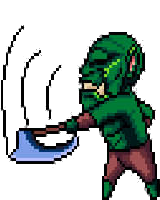
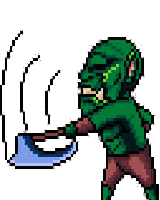
the golbin attack anim is getting shifted to the right have to fix that it might be pretty tricky. Worked on goblin pathfining got better its working and swinging correctly... for now

Changed region(s): [[0.0, 0.12, 1.0, 1.0]]

diff --git a/Campfire stories -monkey/EnemyGoblinBrute.cpp b/Campfire stories -monkey/EnemyGoblinBrute.cpp
@@ -89,6 +89,7 @@ EnemyGoblinBrute::EnemyGoblinBrute(const float& x, const float& y, const float& 
 void EnemyGoblinBrute::DrawEnemy() {
 	if (alive) {
 		DrawTexture(currentTexture, enemyBox.x, enemyBox.y + 10, WHITE);
+		//DrawTexturePro(goblinTex, src, dest, origin, 0, WHITE);
 		DrawRectangleRec(this->getHealhBar(), LIME);// health
 	}
 	//attack hitbox for testing
@@ -97,10 +98,10 @@ void EnemyGoblinBrute::DrawEnemy() {
 
 void EnemyGoblinBrute::playerSeenFunc(PlayerMonkey player) {
 	if (playerSeen) {
-		walkingDistanceRight = player.getRectangle().x - enemyBox.width - 70;
-		walkingDistanceLeft = player.getRectangle().x + enemyBox.width + 150;
+		walkingDistanceRight = player.getRectangle().x + enemyBox.width;
+		walkingDistanceLeft = player.getRectangle().x - enemyBox.width;
 
-		closeDistanceToPlayer = abs(player.getRectangle().x - enemyBox.x - 70);
+		closeDistanceToPlayer = abs(player.getRectangle().x - enemyBox.x + 10);
 
 		if (closeDistanceToPlayer <= 80 || animHitLeft > 0 || animHitRight > 0) {
 			hitting = true;
@@ -150,9 +151,9 @@ void EnemyGoblinBrute::handleAttacking() {
 
 			if (animHitLeft == 3) {
 				hitbox.x = enemyBox.x - 50.0f;
-				hitbox.y = enemyBox.y + 20.0f;
-				hitbox.width = 50.0f;
-				hitbox.height = 20.0f;
+				hitbox.y = enemyBox.y + 40.0f;
+				hitbox.width = 80.0f;
+				hitbox.height = 120.0f;
 			}
 		}
 		else {
@@ -169,7 +170,7 @@ void EnemyGoblinBrute::handleAttacking() {
 
 			if (animHitRight == 3) {
 				hitbox.x = enemyBox.x + 130.0f;
-				hitbox.y = enemyBox.y + 30.0f;
+				hitbox.y = enemyBox.y + 40.0f;
 				hitbox.width = 80.0f;
 				hitbox.height = 120.0f;
 			}
@@ -222,7 +223,7 @@ void EnemyGoblinBrute::movement(PlayerMonkey player) {
 	handleStanding();
 
 	if (facingRight && !standing && !hitting) {
-		if (player.getRectangle().x - enemyBox.x <= viewDistanceFoward && player.getRectangle().x - enemyBox.x >= viewDistanceBackwards) {
+		if (player.getRectangle().x - enemyBox.x <= viewDistanceFoward) {//&& player.getRectangle().x - enemyBox.x >= viewDistanceBackwards
 			playerSeen = true;
 			viewDistanceFoward = 500.0f;
 			viewDistanceBackwards = 150.0f;
@@ -252,7 +253,7 @@ void EnemyGoblinBrute::movement(PlayerMonkey player) {
 		}
 	}
 	else if(!facingRight && !standing && !hitting) {
-		if (player.getRectangle().x - enemyBox.x <= viewDistanceFoward && player.getRectangle().x - enemyBox.x >= viewDistanceBackwards) {
+		if (enemyBox.x - player.getRectangle().x <= viewDistanceFoward) {//&& player.getRectangle().x - enemyBox.x >= viewDistanceBackwards
 			playerSeen = true;
 			viewDistanceFoward = 500.0f;
 			viewDistanceBackwards = 150.0f;

diff --git a/Campfire stories -monkey/main.cpp b/Campfire stories -monkey/main.cpp
@@ -24,9 +24,9 @@ int main() {
 
     PlayerMonkey Monkey;
     //          hp(hp), speed(speed), damage(damage), enemyBox{ x, y, width, hegiht }
-    EnemyGoblinBrute goblinFront(7400.0f, 600.0f, 80.0f, 200.0f, 200.0f, 3.0f, 50.0f,7000.0f, 7500.0f);
-	EnemyGoblinBrute goblinMiddle(8000.0f, 600.0f, 80.0f, 200.0f, 200.0f, 3.0f, 50.0f, 7600.0f, 8100.0f);
-	EnemyGoblinBrute goblinBack(8600.0f, 600.0f, 80.0f, 200.0f, 200.0f, 3.0f, 50.0f, 8200.0f, 8700.0f);
+    EnemyGoblinBrute goblinFront(7400.0f, 600.0f, 80.0f, 200.0f, 200.0f, 3.0f, 50.0f,7000.0f, 8000.0f);
+	EnemyGoblinBrute goblinMiddle(8500.0f, 600.0f, 80.0f, 200.0f, 200.0f, 3.0f, 50.0f, 7600.0f, 8800.0f);
+	EnemyGoblinBrute goblinBack(9100.0f, 600.0f, 80.0f, 200.0f, 200.0f, 3.0f, 50.0f, 8200.0f, 9700.0f);
     World gameWorld;
 	Village village;
 
